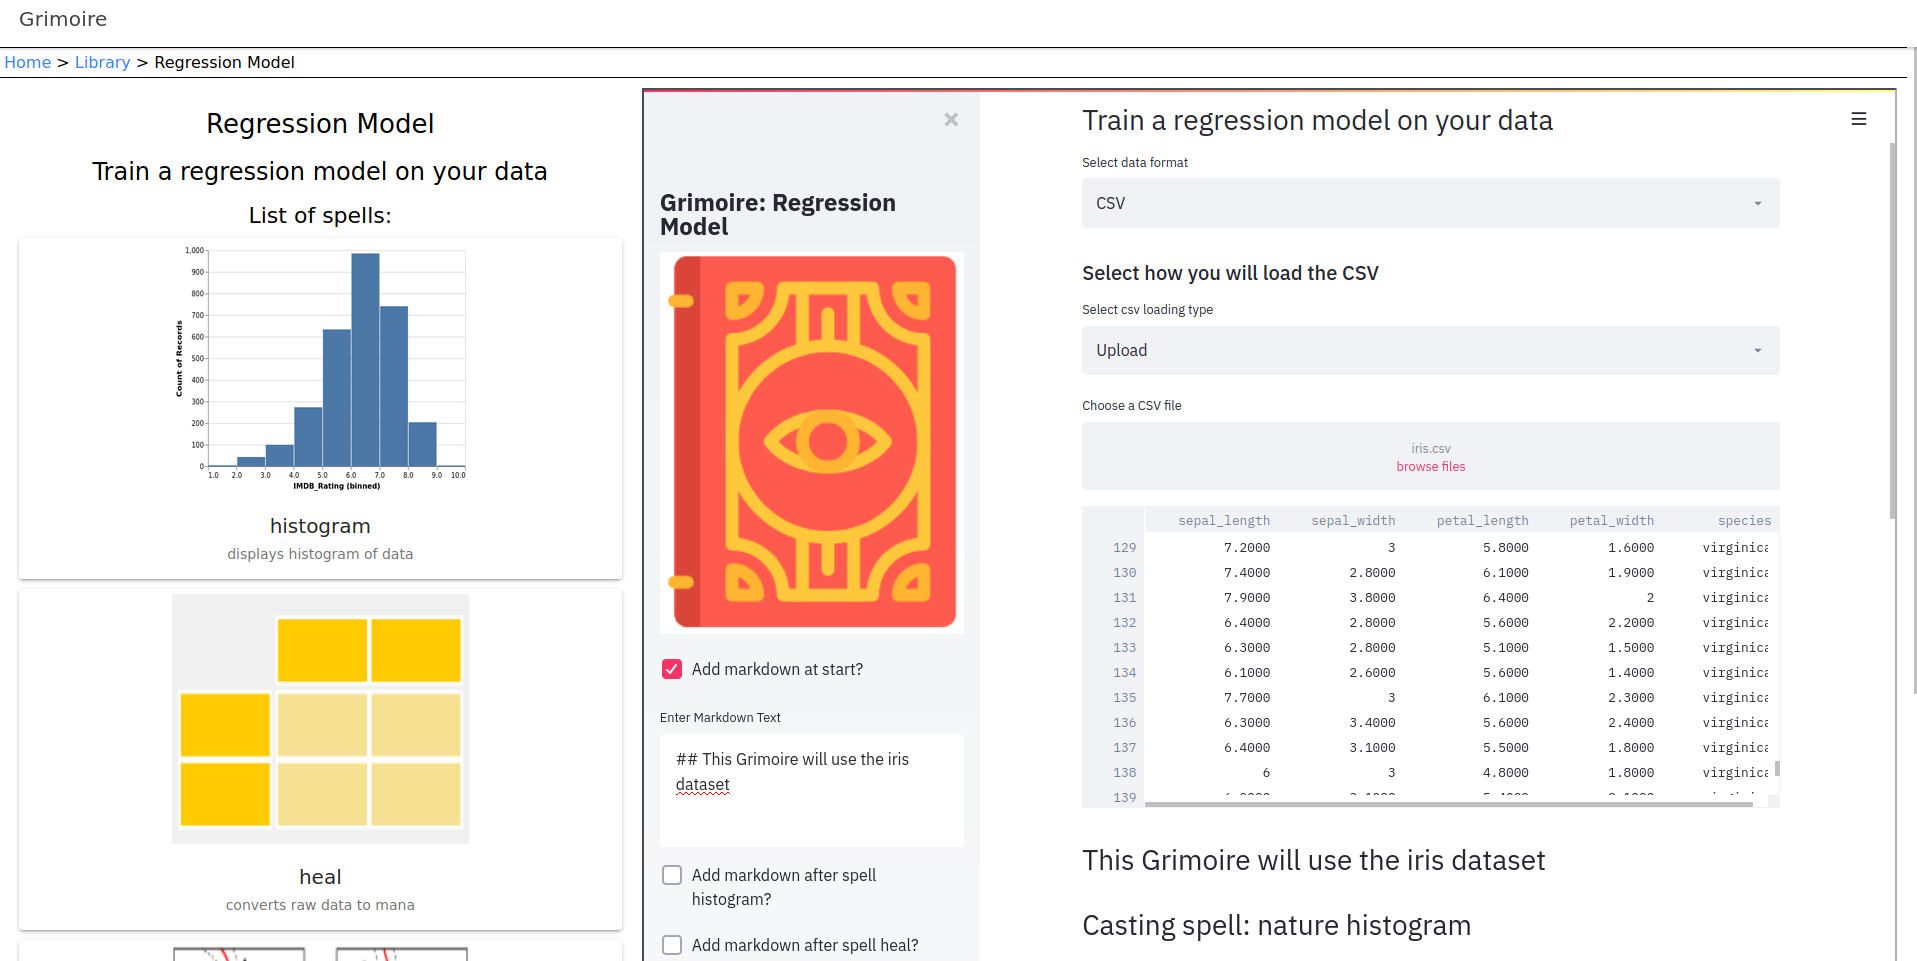
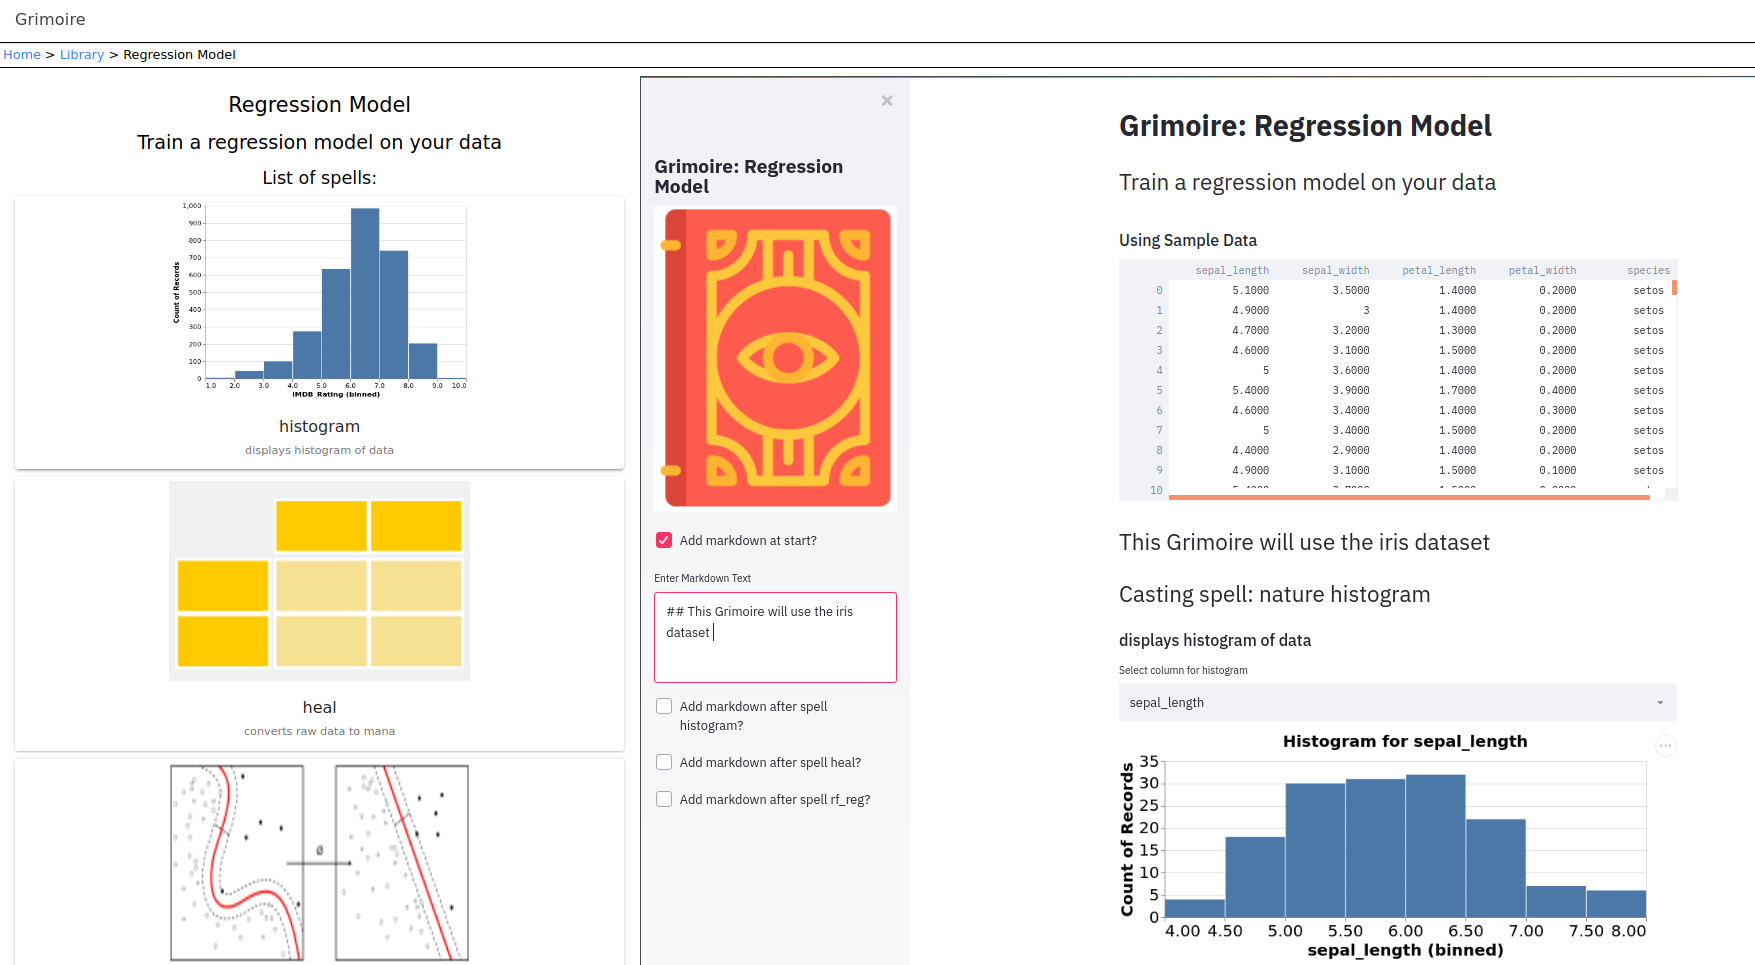
train model workflow

diff --git a/docs/index.md b/docs/index.md
@@ -27,7 +27,9 @@ Data Visualization
 
 
 ### Train your own Model
-![alt text](images/model-train1.png "Train ML Model")
+![View data](images/model-train1.png "View data")
+![Train model](images/model-train2.png "Train Model")
+![Predict with Model](images/model-train3.png "Predict with Model")
 
 
 Create your own Workflow
